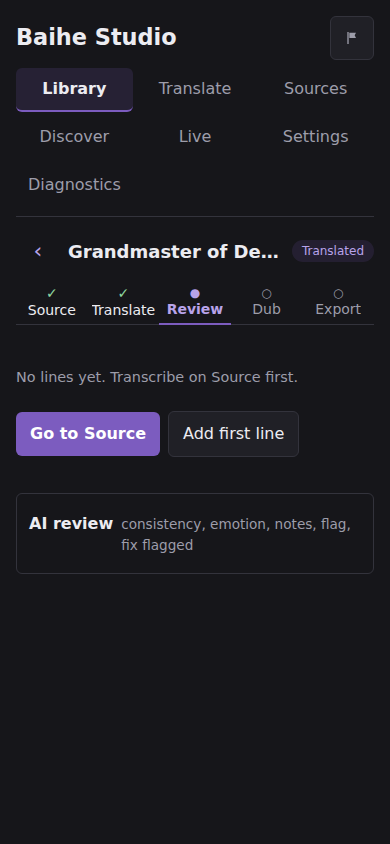
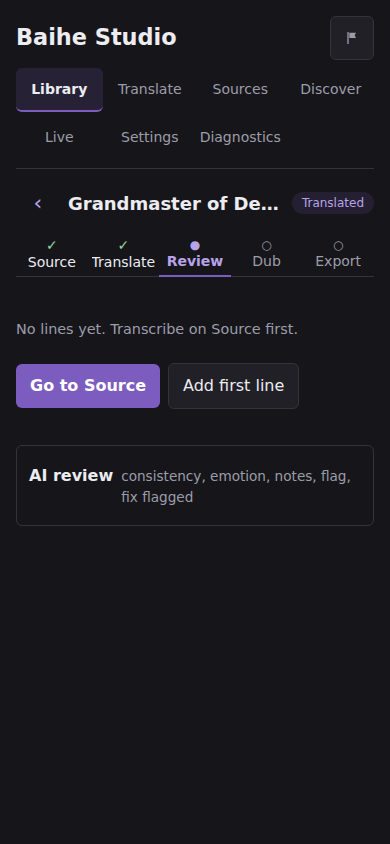
Phone app header: two-row nav so Workspace content starts by y=300 (spec §3.3)
The phone nav grid goes from 3 columns (3 rows) to 4 columns (2 rows) at
--text-sm, with --text-xs below 380px so "Diagnostics" still fits. On a
390x844 phone, stage content now starts at y=285 (was ~330). Every page
is still one tap away. mobile.spec.ts pins the y<=300 target on all five
stages; the after screenshots are refreshed.

Claude-Session: https://claude.ai/code/session_01EYhb7TdpJo2ZN8xgZienHU

diff --git a/frontend/src/index.css b/frontend/src/index.css
@@ -333,9 +333,9 @@ details.section > summary { display: flex; align-items: baseline; gap: var(--spa
   .app-header button.report-btn { min-width: 44px; min-height: 44px; justify-content: center; padding-inline: 0; }
   .app-header button.report-btn > span { position: absolute; width: 1px; height: 1px; margin: -1px; overflow: hidden; clip: rect(0 0 0 0); white-space: nowrap; }
   .app-header { row-gap: var(--space-2); padding-bottom: var(--space-2); }
-  /* Phones: every page in view, 3 per row (no sideways-scrolling nav). */
-  .app-header nav { flex: 1 1 100%; display: grid; grid-template-columns: repeat(3, minmax(0, 1fr)); }
-  .app-header nav a { min-width: 0; padding-inline: var(--space-1); white-space: nowrap; overflow: hidden; text-overflow: ellipsis; }
+  /* Phones: every page in view, 4 per row in two rows (no sideways-scrolling nav). */
+  .app-header nav { flex: 1 1 100%; display: grid; grid-template-columns: repeat(4, minmax(0, 1fr)); }
+  .app-header nav a { min-width: 0; padding-inline: 2px; white-space: nowrap; overflow: hidden; text-overflow: ellipsis; font-size: var(--text-sm); }
 }
 @media (pointer: coarse), (max-width: 640px) { .history-read { display: inline-flex; align-items: center; min-height: 44px; } }
 
@@ -381,6 +381,8 @@ input[type='file'] { color: var(--muted); max-width: 100%; }
 @media (pointer: coarse), (max-width: 640px) {
   input[type='file']::file-selector-button { min-height: 44px; }
 }
+/* Narrowest phones (≤380px): smaller nav labels so "Diagnostics" still fits its column. */
+@media (max-width: 380px) { .app-header nav a { font-size: var(--text-xs); } }
 @media (max-width: 640px) {
   .confirm-button { display: flex; flex: 1 1 100%; justify-content: flex-end; }
 }

diff --git a/frontend/e2e/mobile.spec.ts b/frontend/e2e/mobile.spec.ts
@@ -58,6 +58,13 @@ for (const stage of ['source', 'translate', 'review', 'dub', 'export']) {
     expect(boxes).toHaveLength(5)
     expect(new Set(boxes.map((b) => b.top)).size).toBe(1)
     for (const b of boxes) expect(b.right).toBeLessThanOrEqual(390)
+    // §3.3: the app header and Workspace header are compact enough that stage content starts by y=300.
+    const contentTop = await page.locator('nav.stage-tabs').evaluate((n) => {
+      let s = n.nextElementSibling
+      while (s && s.getBoundingClientRect().height === 0) s = s.nextElementSibling
+      return s ? s.getBoundingClientRect().top : Infinity
+    })
+    expect(contentTop).toBeLessThanOrEqual(300)
   })
 }
 
